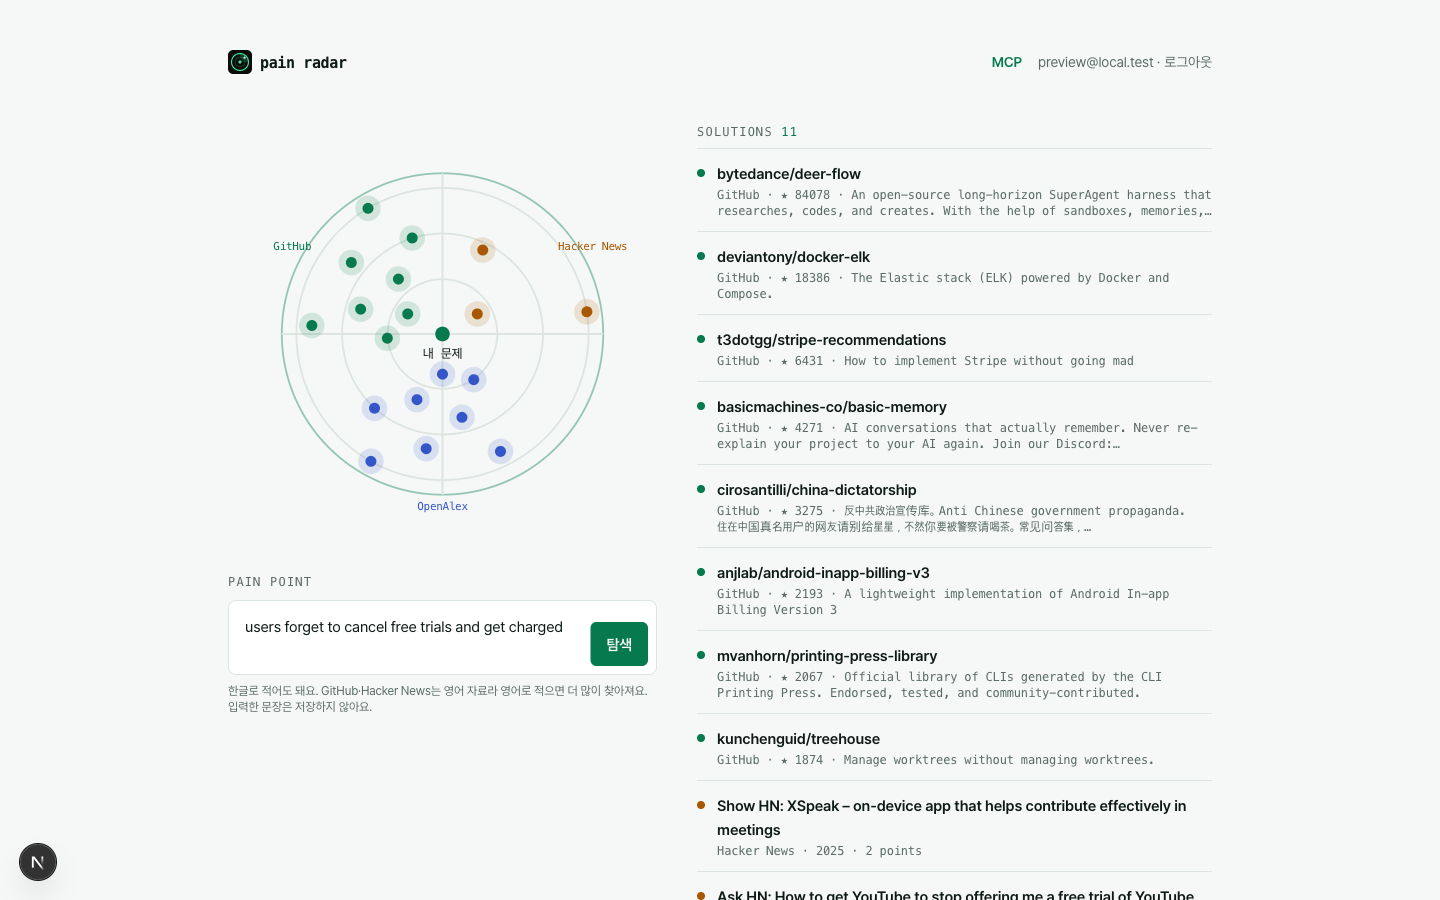
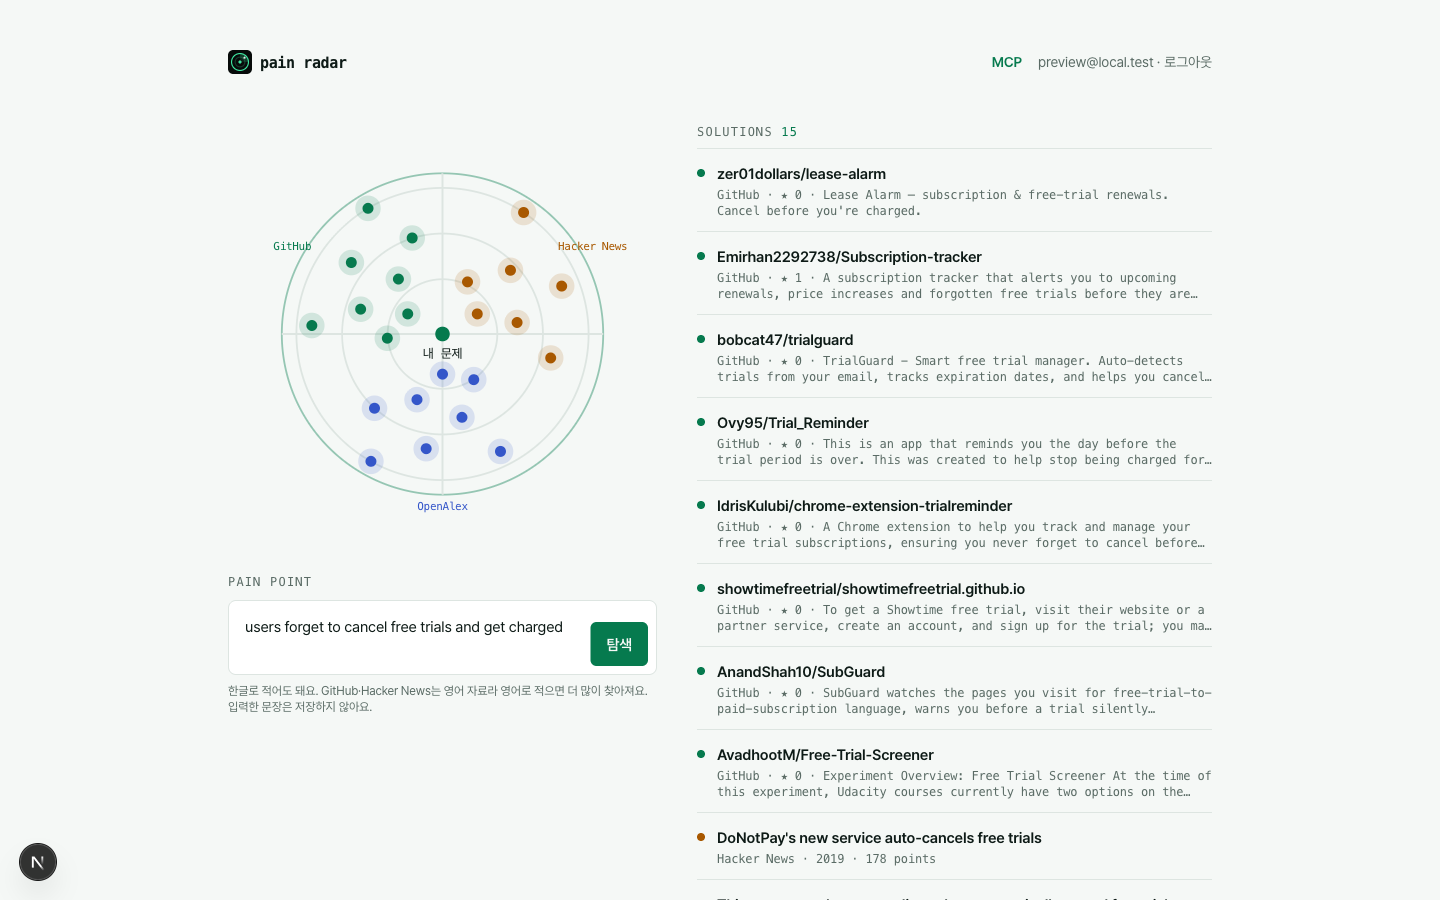
[Auto-Application][Week 02] pain-radar: search-quality results, fresh screenshots

diff --git a/tracks/auto-application/projects/pain-radar/outputs/week-02/README.md b/tracks/auto-application/projects/pain-radar/outputs/week-02/README.md
@@ -41,6 +41,7 @@ MCP 연결 화면. 헤더의 **MCP** 링크로 들어오고, 키를 발급하면
 | 평가 | 운영 URL·레포 채점 | micro-saas-audit |
 | 디자인 검증 | 전체 화면 2회 검증·수정, 라이트 모드 추가, 앱 아이콘·로고 통일 | design-conductor (+ impeccable, Playwright) |
 | 한글 입력 | 번역 AI 없이 한글 단어를 검색어에 남김 | ship-loop |
+| 검색 품질 | 키워드 선택 규칙, GitHub best match, HN 부분 일치, 같은 URL 중복 제거 | ship-loop |
 
 ## 재현 및 검증
 
@@ -48,7 +49,7 @@ MCP 연결 화면. 헤더의 **MCP** 링크로 들어오고, 키를 발급하면
 
 | 검사 | 날짜 | 결과 |
 | --- | --- | --- |
-| `npm test` (검색 로직·키·redirect) | 10-19 | 5개 통과 |
+| `npm test` (검색 로직·키·redirect·중복 제거) | 10-19 | 6개 통과 |
 | `npx tsc --noEmit` · `npm run lint` | 10-19 | 통과 |
 | 운영 `GET /login`, `/terms`, `/privacy`, `/icon.svg` | 10-19 | 200 |
 | 운영 `POST /mcp` 키 없이 | 10-19 | 401 |
@@ -73,18 +74,18 @@ MCP 연결 화면. 헤더의 **MCP** 링크로 들어오고, 키를 발급하면
 | GA 퍼널 이벤트 | `login_click` → `search` → `result_click`, `search_error`, `key_create` (입력 문장은 보내지 않음) |
 | 일일 한도 | 사용자당 검색 100회, API 키당 MCP 호출 100회 (UTC 기준, 임시값) |
 | 한글 입력 실측 ("무료 체험 해지") | OpenAlex 4 · GitHub 70 · Hacker News 0 |
-| 제작 | 커밋 31 · 머지된 PR 21 · 이슈 23(닫힘 20) · spec 18 · 자동 테스트 5 |
+| 제작 | 커밋 34 · 머지된 PR 24 · spec 20 · 자동 테스트 6 |
 
 ## 한계점
 
-제출 시점(2026-10-19) 기준입니다. 검색 품질 개선은 서비스 저장소 PR #48(키워드 선택, GitHub best match, HN 부분 일치)로 올렸고, 아래는 그 뒤에도 남는 한계입니다.
+제출 시점(2026-10-19) 기준입니다. 검색 품질 개선(서비스 저장소 PR #48: 키워드 선택, GitHub best match, HN 부분 일치)과 같은 URL 중복 제거(PR #50)는 운영에 반영했고, 아래는 그 뒤에도 남는 한계입니다.
 
 **검색이 찾는 범위**
 
 - 출처가 셋뿐입니다. GitHub·Hacker News·OpenAlex 밖에 있는 앱스토어 앱, Product Hunt, Reddit, 국내 커뮤니티, 특허, 이미 문 닫은 서비스는 보이지 않습니다. "아무것도 안 나옴"이 "아무도 안 만듦"을 뜻하지 않습니다.
 - 키워드 일치 검색입니다. 같은 문제를 다른 단어로 쓴 결과(trial ↔ subscription)는 놓치고, 같은 단어를 다른 뜻으로 쓴 결과(cancel ↔ "Cancel Culture" 논문)는 섞입니다. 키워드는 불용어를 빼고 영어는 문장 끝, 한글은 문장 앞 단어를 고르는 규칙이라 문장 구조가 다르면 핵심어를 놓칩니다.
 - 한글은 번역 없이 반만 됩니다. Hacker News는 영어 자료라 한글로는 거의 0건이고, GitHub도 한국어로 설명을 쓴 저장소만 걸립니다. 조사는 명사 끝과 헷갈리지 않는 것(을/를/은/는/에서/으로/에게)만 떼고, 동사 활용("해지하는")은 그대로 남습니다.
-- 순위는 각 API의 순위를 그대로 씁니다. 출처끼리 관련도를 비교하거나 중복(같은 제목의 HN 글 두 개)을 합치지 않습니다.
+- 순위는 각 API의 순위를 그대로 씁니다. 출처끼리 관련도를 비교하지 않습니다. 같은 URL은 한 번만 보여 주지만, 링크가 다른 같은 제목 글은 합치지 않습니다.
 - 출처마다 기본 8개, 최대 25개이고 다음 페이지가 없습니다.
 - 품질 평가는 작성자 한 명이 영어 질문 5개를 판정한 것뿐입니다. 정답 세트나 사용자 판정이 없습니다.
 
